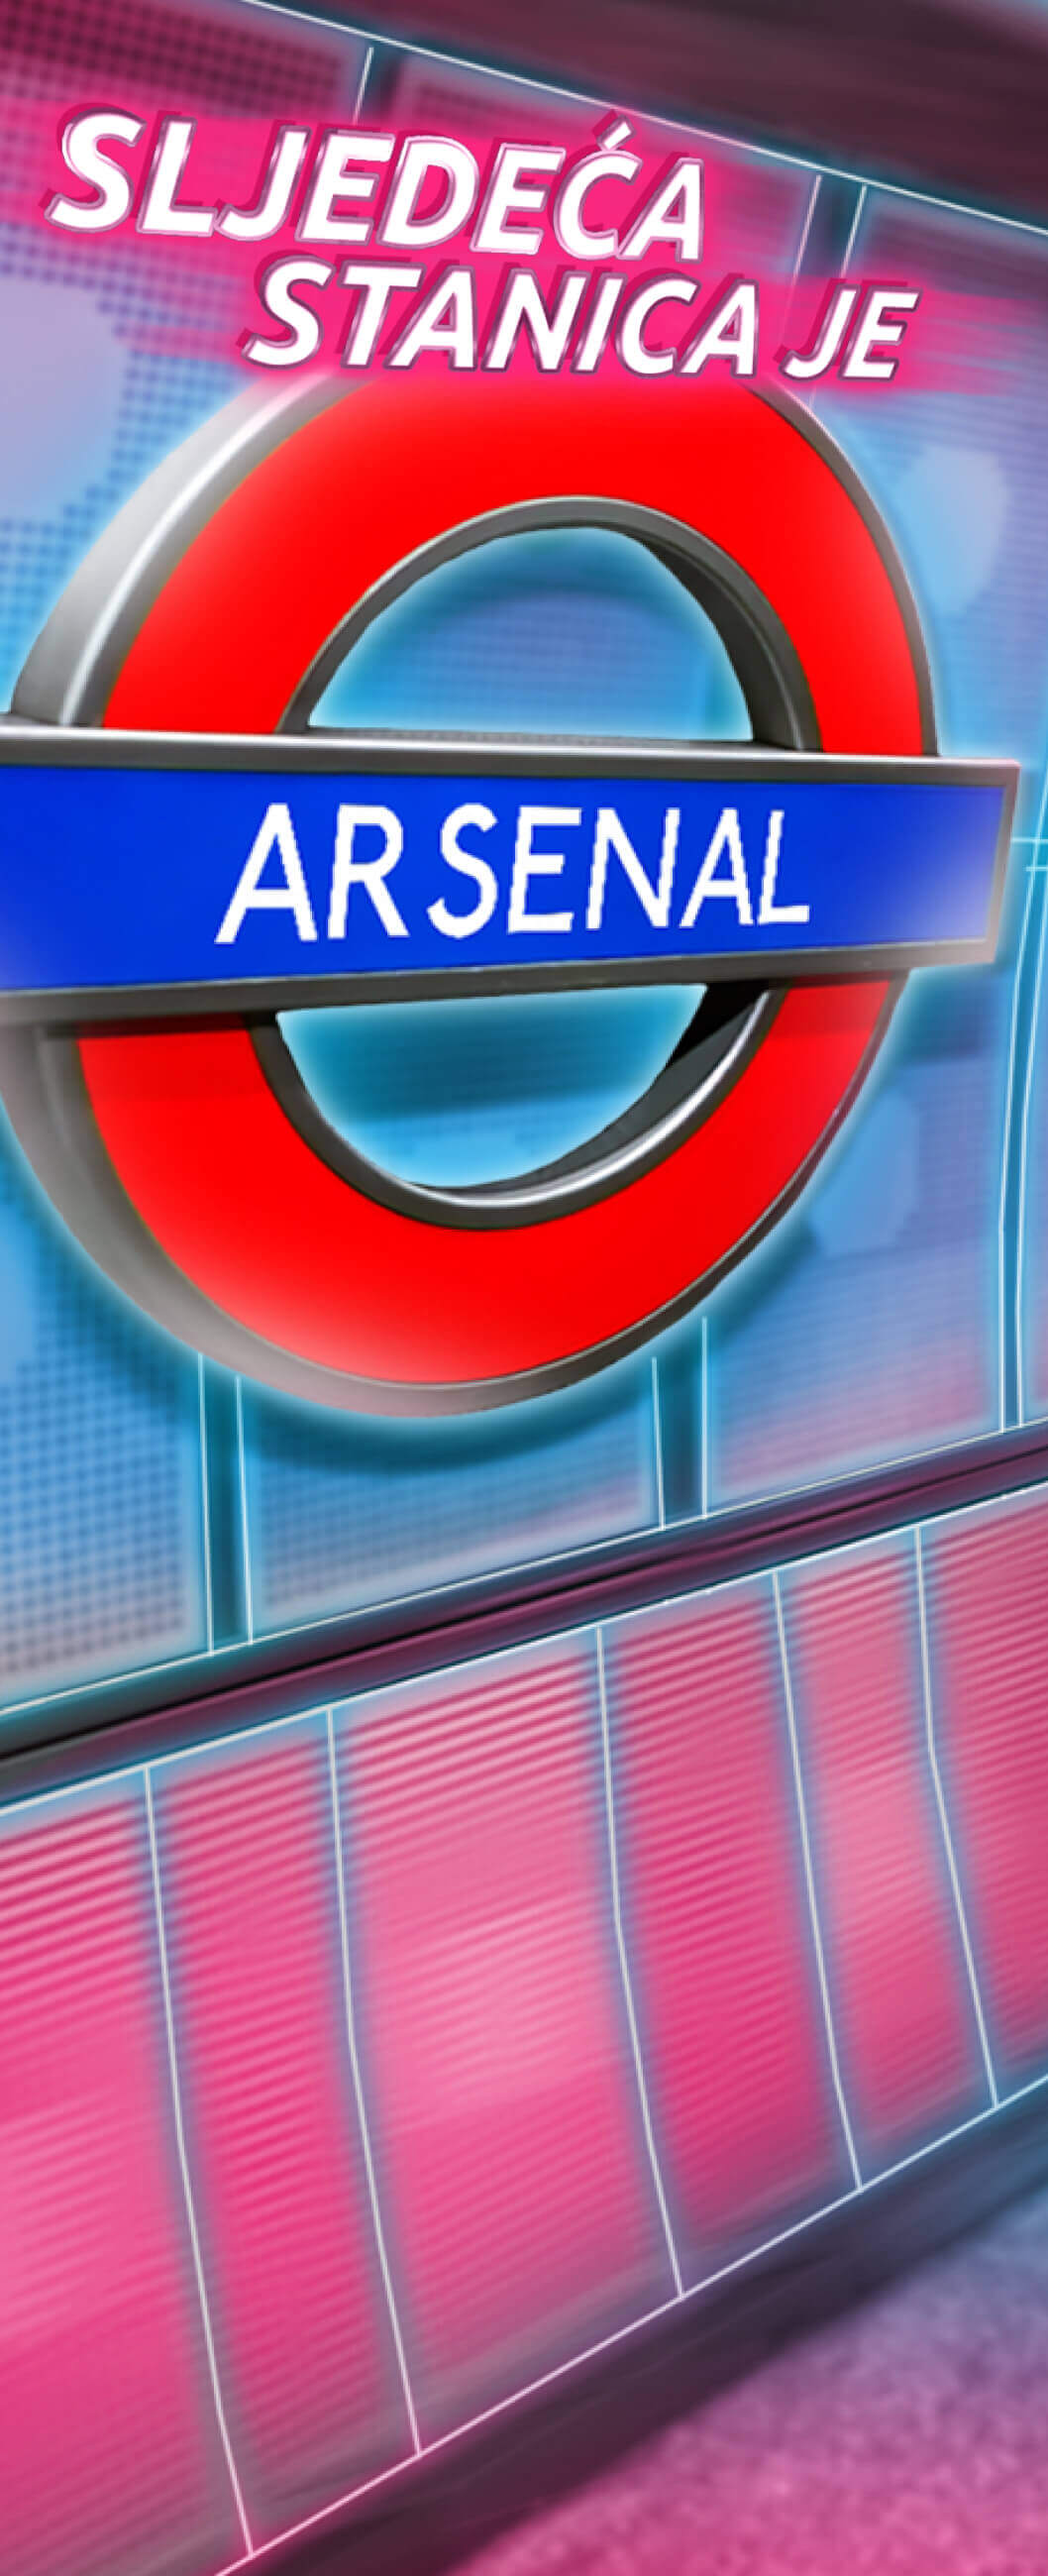
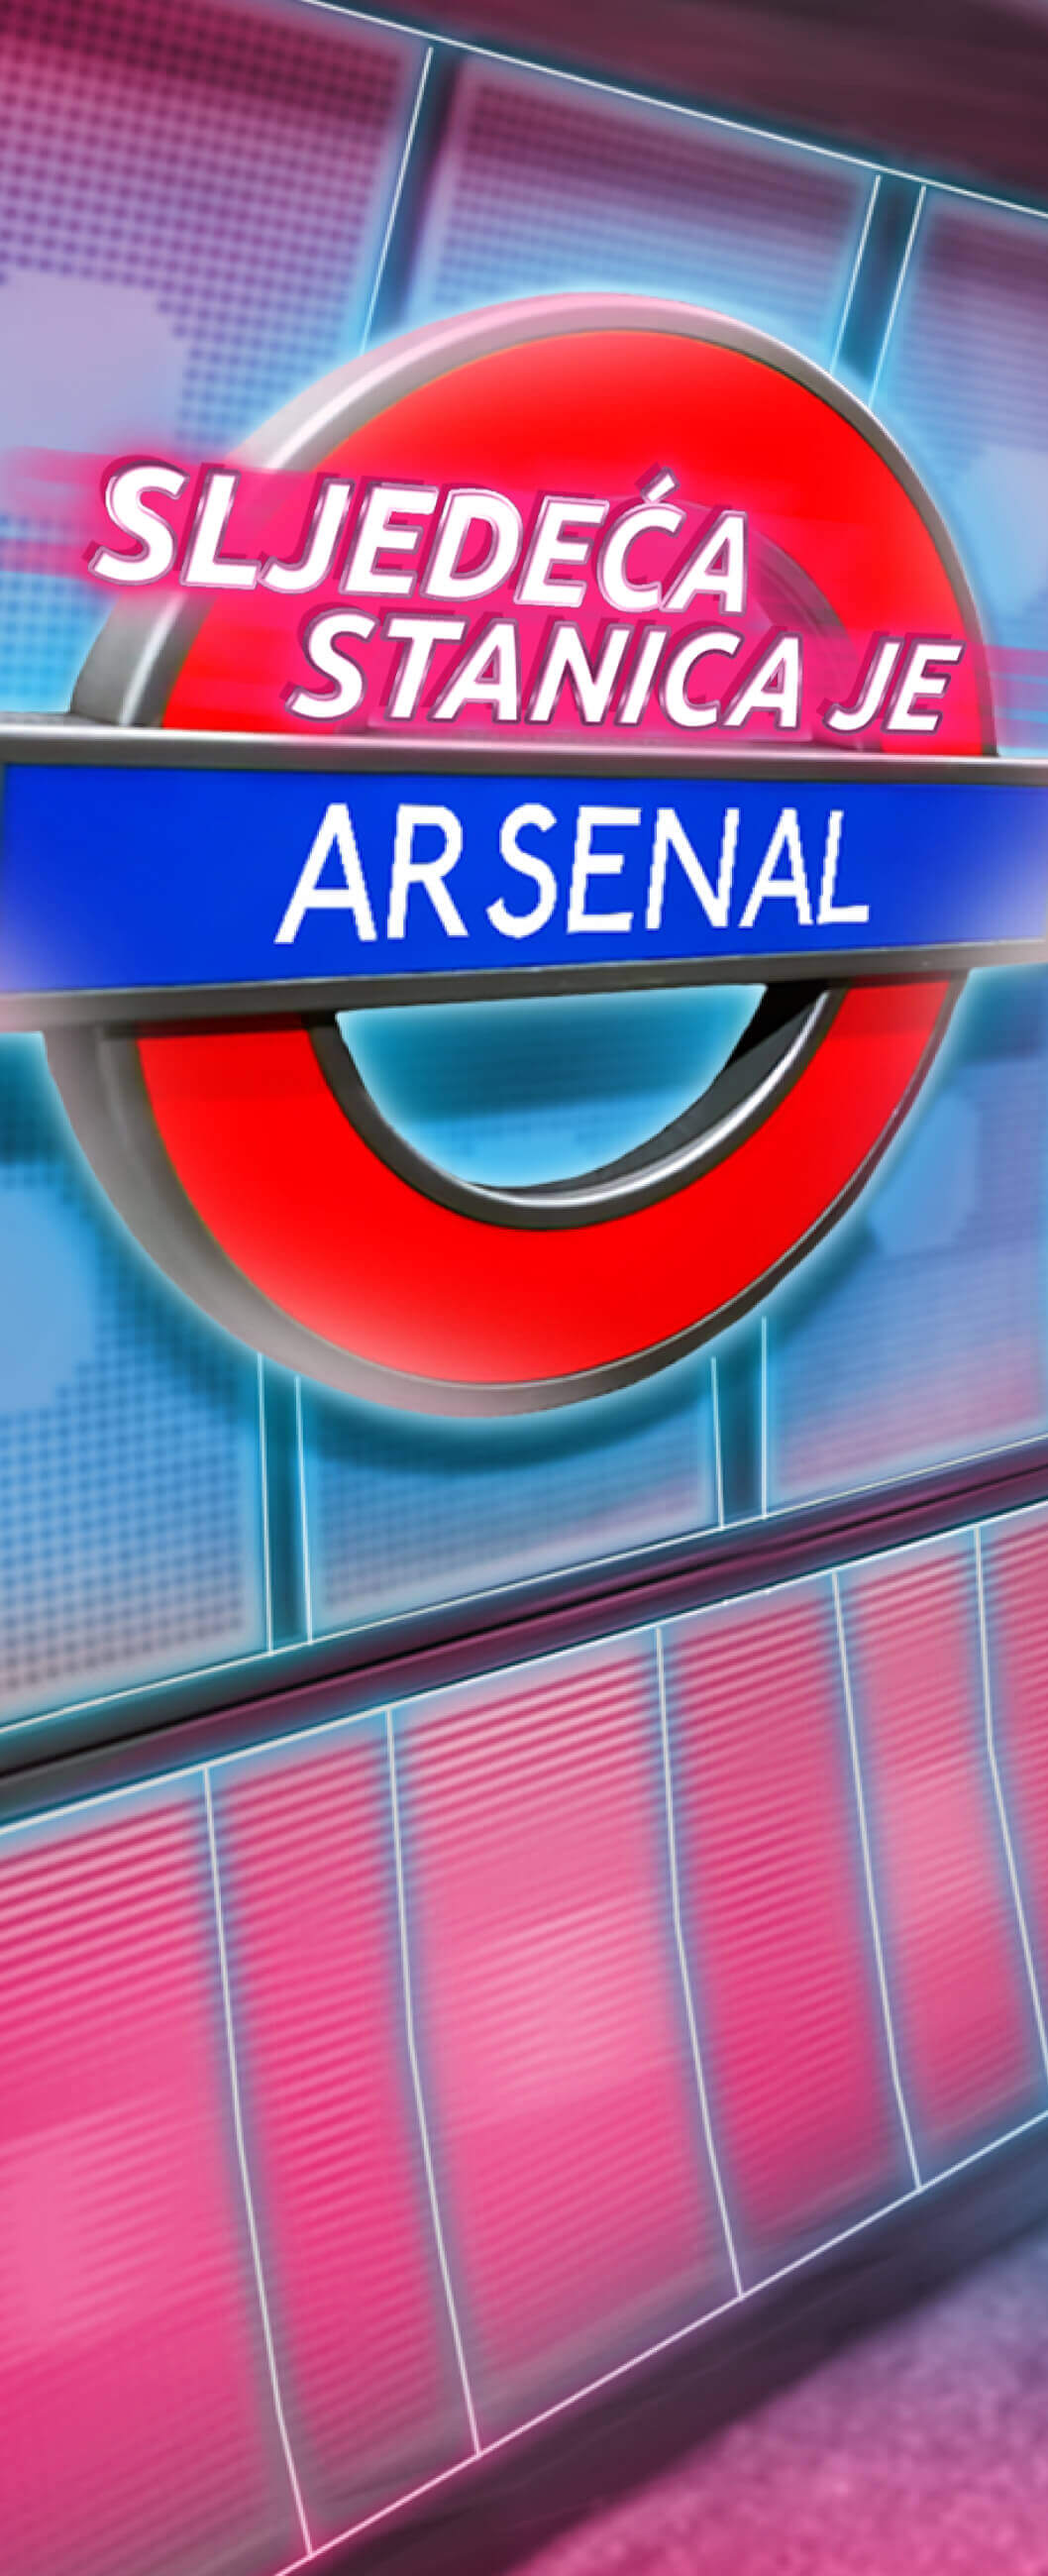
1300 fix

diff --git a/build/css/main.css b/build/css/main.css
@@ -93,30 +93,14 @@ body img {
   width: 100%;
 }
 
-@media screen and (min-width: 2500px) {
-  .banner__top {
-    -webkit-transform: scale(1.25);
-    -ms-transform: scale(1.25);
-    transform: scale(1.25);
-    -webkit-transform-origin: top;
-    -ms-transform-origin: top;
-    transform-origin: top;
-  }
-  .banner__bottom {
-    -webkit-transform: translateX(-50%) scale(1.25);
-    -ms-transform: translateX(-50%) scale(1.25);
-    transform: translateX(-50%) scale(1.25);
-    -webkit-transform-origin: bottom;
-    -ms-transform-origin: bottom;
-    transform-origin: bottom;
+@media screen and (min-width: 2200px) {
+  .banner {
+    background-position: 0% 23%;
   }
 }
-@media screen and (min-width: 2000px) and (max-width: 2300px) {
-  .banner__top {
-    margin-top: 40px;
-  }
-  .banner__bottom {
-    bottom: 30px;
+@media screen and (min-width: 2500px) {
+  .banner__pers {
+    width: 66vh;
   }
 }
 @media screen and (max-width: 1920px) and (max-height: 1040px) {
@@ -376,4 +360,4 @@ body img {
     width: 100%;
   }
 }
[2 lines of base64/hex data omitted]

diff --git a/front/sass/media.sass b/front/sass/media.sass
@@ -1,18 +1,11 @@
+@media screen and (min-width: 2200px)
+  .banner
+    background-position: 0% 23%
+
 @media screen and (min-width: 2500px)
   .banner
-    &__top
-      transform: scale(1.25)
-      transform-origin: top
-    &__bottom
-      transform: translateX(-50%) scale(1.25)
-      transform-origin: bottom
-
-@media screen and (min-width: 2000px) and (max-width: 2300px)
-  .banner
-    &__top
-      margin-top: 40px
-    &__bottom
-      bottom: 30px
+    &__pers
+      width: 66vh
 
 @media screen and (max-width: 1920px) and (max-height: 1040px)
   .banner
